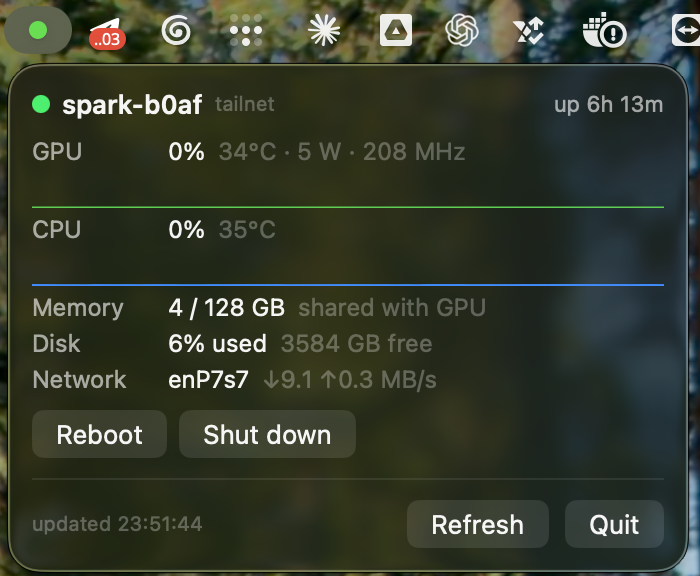
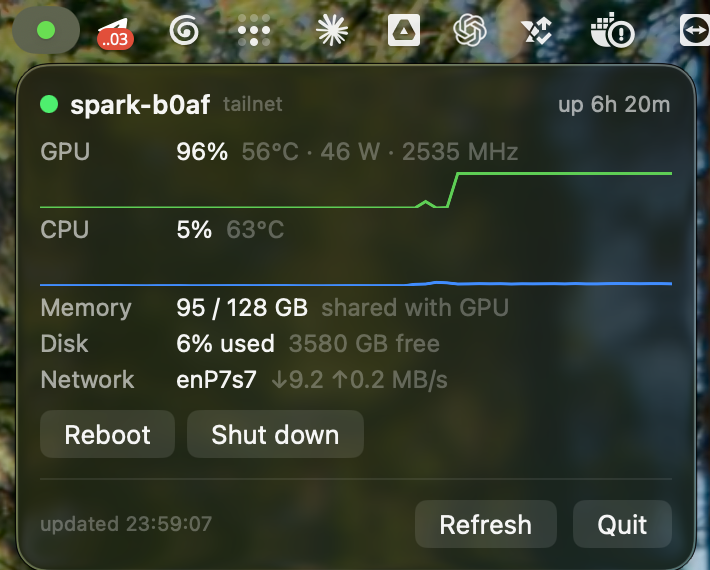
Update README.md with enhanced status LED descriptions and add memory pressure screenshot

Changed region(s): [[0.0, 0.0, 1.0, 1.0], [0.57, 0.8649, 0.78, 0.9544], [0.48, 0.7754, 0.51, 0.8053]]

diff --git a/README.md b/README.md
@@ -13,13 +13,13 @@ quietly throttling itself down to a quarter of its speed.
 
 That bothered me enough to build one. It lives in the Mac menu bar.
 
-<img src="docs/screenshot.png" width="420" alt="A green status LED in the macOS menu bar showing an NVIDIA DGX Spark is up, with GPU, CPU, memory, disk and network readings below it">
+<img src="docs/screenshot.png" width="420" alt="A green status LED in the macOS menu bar showing an NVIDIA DGX Spark running inference at 96% GPU, with CPU, unified memory, disk and network readings below it">
 
-**🟢 up · 🟡 something is off · 🔴 unreachable**
+**🟢 up · 🟡 something is off · 🔴 in trouble, or not answering**
 
 Green means the Spark is up and nothing is overheating, throttled or out of
-memory. Click the dot for the numbers — or shut the box down before you pack it
-into a bag.
+memory — above, it is 96% busy and perfectly happy. Click the dot for the
+numbers, or shut the box down before you pack it into a bag.
 
 ## Install
 
@@ -59,6 +59,11 @@ because GB10 is not a discrete GPU:
 * **A throttled Spark** — busy GPU drawing 14–25 W at a low SM clock — turns the
   dot yellow. It is the most common reason a demo runs at a quarter speed while
   every dashboard still looks green.
+
+When something does go wrong, the dot turns and says so in words, not in a
+metric you have to interpret:
+
+<img src="docs/screenshot-memory-pressure.png" width="420" alt="A red status LED in the macOS menu bar warning that memory pressure is stalling everything, with /proc/pressure/memory full avg10 = 4.74 and the note that the model does not fit and inference is waiting on memory">
 
 Thresholds are adapted from [spark-doctor](https://github.com/joeynyc/spark-doctor)
 (MIT), whose numbers come from reported DGX Spark field behaviour rather than
